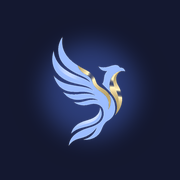
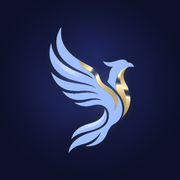
O'qituvchi uchun telefon ilovasi rejimi va yangi ilova ikonkalari
- O'qituvchi: pastki menyu (Asosiy, Guruhlar, Jadval, Xabarlar, Yana), «Yana» yon panelni ochadi; bosh sahifada «Ilovani o'rnating» kartasi
- Ilova ikonkalari logotipdan qayta yasaldi (qush kattaroq, yorqin), maskable va iPhone variantlari; ?v=2 va SW v3 bilan kesh yangilanadi

Changed region(s): [[0.25, 0.1389, 0.75, 0.8611]]

diff --git a/lms/public/app.js b/lms/public/app.js
@@ -243,6 +243,8 @@ const NAV = {
 // telefonda o'quvchi uchun pastki menyu (ilova kabi)
 const PTABBAR = [['#/', 'home', 'Asosiy'], ['#/p/attendance', 'checkCircle', 'Davomat'], ['#/p/tasks', 'clipboard', 'Baholar'], ['#/p/pay', 'wallet', "To'lov"], ['#/p/messages', 'message', 'Xabar']];
 const TABBAR = [['#/', 'home', 'Asosiy'], ['#/groups', 'layers', 'Kurslar'], ['#/rating', 'trophy', 'Reyting'], ['#/market', 'gift', 'Market'], ['#/profile', 'user', 'Profil']];
+// o'qituvchi ilovasi: oxirgi «Yana» — qolgan bo'limlarni (Kurslar, Reyting, E'lonlar, Profil) yon panelda ochadi
+const TTABBAR = [['#/', 'home', 'Asosiy'], ['#/groups', 'users', 'Guruhlar'], ['#/schedule', 'calendar', 'Jadval'], ['#/inbox', 'message', 'Xabarlar'], ['#more', 'menu', 'Yana']];
 const coinHtml = (n, cls = '') => `<span class="coin ${cls}"><i></i>${Number(n || 0).toLocaleString('ru-RU')}</span>`;
 
 function layout(html) {
@@ -255,8 +257,15 @@ function layout(html) {
   }).join('');
   const isSt = u.role === 'student', isPa = u.role === 'parent';
   const coinPill = isSt ? `<a href="#/coins" class="coin-pill" data-coins title="Coinlarim">${coinHtml(state.coins ?? 0)}</a>` : '';
-  const tabbar = isSt || isPa ? `<nav class="tabbar">${(isPa ? PTABBAR : TABBAR).map(([h, icon, t]) => { const a = h === '#/' ? (hash === '#/' || hash === '#') : hash.startsWith(h) || (h === '#/groups' && hash.startsWith('#/tests')); return `<a href="${h}" class="${a ? 'active' : ''}">${ic(icon)}<span>${t}</span></a>`; }).join('')}</nav>` : '';
-  document.body.classList.toggle('app-student', isSt || isPa);
+  const isTe = u.role === 'teacher';
+  const tabs = isPa ? PTABBAR : isTe ? TTABBAR : TABBAR;
+  const tabbar = isSt || isPa || isTe ? `<nav class="tabbar">${tabs.map(([h, icon, t]) => {
+    if (h === '#more') { const inMore = ['#/courses', '#/rating', '#/news', '#/profile'].some((x) => hash.startsWith(x)); return `<a href="#" data-more class="${inMore ? 'active' : ''}">${ic(icon)}<span>${t}</span></a>`; }
+    const a = h === '#/' ? (hash === '#/' || hash === '#') : hash.startsWith(h) || (h === '#/groups' && hash.startsWith('#/tests'));
+    return `<a href="${h}" class="${a ? 'active' : ''}">${ic(icon)}<span>${t}</span></a>`;
+  }).join('')}</nav>` : '';
+  document.body.classList.toggle('app-student', isSt || isPa || isTe);
+  document.body.classList.toggle('app-teacher', isTe);
   document.body.classList.toggle('is-home', hash === '#/' || hash === '#');
   const bell = `<button class="icon-btn" data-bell title="Bildirishnomalar">${ic('bell')}${state.unread ? `<span class="dot">${state.unread > 99 ? '99+' : state.unread}</span>` : ''}</button>`;
   $('#app').innerHTML = `
@@ -279,6 +288,7 @@ function layout(html) {
   </div>${tabbar}`;
   $('#logout').onclick = async () => { await api('POST', '/api/logout').catch(() => {}); state.user = null; go('#/login'); };
   $('#menuBtn').onclick = (e) => { e.stopPropagation(); $('#sidebar').classList.toggle('open'); };
+  const more = $('[data-more]'); if (more) more.onclick = (e) => { e.preventDefault(); e.stopPropagation(); $('#sidebar').classList.toggle('open'); };
   $$('[data-bell]').forEach((b) => { b.onclick = (e) => { e.stopPropagation(); toggleNotifications(); }; });
 }
 
@@ -535,6 +545,7 @@ async function viewDashboard() {
   } else if (u.role === 'teacher') {
     const s = d.stats;
     layout(`<div class="page-head"><div><h1>${greeting()}, ${first}!</h1><p>Bugungi ishlaringiz</p></div></div>
+      ${installCard()}
       <div class="stats">
         ${stat('violet', 'users', s.groups, 'Guruhlar')}
         ${stat('blue', 'layers', s.students, "O'quvchilar")}

diff --git a/lms/public/ilova/index.html b/lms/public/ilova/index.html
@@ -13,9 +13,9 @@
 <meta name="mobile-web-app-capable" content="yes">
 <meta name="apple-mobile-web-app-status-bar-style" content="black-translucent">
 <meta name="apple-mobile-web-app-title" content="yuksalish.dev">
-<link rel="icon" type="image/png" href="/img/favicon.png">
-<link rel="manifest" href="/manifest.webmanifest">
-<link rel="apple-touch-icon" href="/img/apple-touch-icon.png">
+<link rel="icon" type="image/png" href="/img/favicon.png?v=2">
+<link rel="manifest" href="/manifest.webmanifest?v=2">
+<link rel="apple-touch-icon" href="/img/apple-touch-icon.png?v=2">
 <link rel="preconnect" href="https://fonts.googleapis.com">
 <link rel="preconnect" href="https://fonts.gstatic.com" crossorigin>
 <link href="https://fonts.googleapis.com/css2?family=Poppins:wght@400;500;600;700;800&display=swap" rel="stylesheet">
@@ -201,7 +201,7 @@
   </section>
 
   <section class="final wrap">
-    <img src="/img/icon-192.png" alt="">
+    <img src="/img/icon-192.png?v=2" alt="">
     <h2>Boshlashga tayyormisiz?</h2>
     <p>O'rnating, login va parolingiz bilan kiring.</p>
     <div class="cta center">
@@ -220,7 +220,7 @@
 <div class="sheet" id="iosSheet" hidden>
   <div class="sheet-card" role="dialog" aria-modal="true" aria-labelledby="iosT">
     <button class="x" type="button" data-close aria-label="Yopish"><svg><use href="#i-x"/></svg></button>
-    <img class="sheet-ic" src="/img/icon-192.png" alt="">
+    <img class="sheet-ic" src="/img/icon-192.png?v=2" alt="">
     <h3 id="iosT">iPhone'ga o'rnatish</h3>
     <ol>
       <li><span><svg><use href="#i-share"/></svg></span>Pastdagi <b>Ulashish</b> tugmasini bosing</li>

diff --git a/lms/public/index.html b/lms/public/index.html
@@ -5,14 +5,14 @@
     <meta charset="UTF-8">
     <meta name="viewport" content="width=device-width, initial-scale=1.0, viewport-fit=cover">
     <title>yuksalish.dev</title>
-    <link rel="icon" type="image/png" href="/img/favicon.png">
-    <link rel="manifest" href="/manifest.webmanifest">
+    <link rel="icon" type="image/png" href="/img/favicon.png?v=2">
+    <link rel="manifest" href="/manifest.webmanifest?v=2">
     <meta name="theme-color" content="#141629">
     <meta name="mobile-web-app-capable" content="yes">
     <meta name="apple-mobile-web-app-capable" content="yes">
     <meta name="apple-mobile-web-app-status-bar-style" content="black-translucent">
     <meta name="apple-mobile-web-app-title" content="yuksalish.dev">
-    <link rel="apple-touch-icon" href="/img/apple-touch-icon.png">
+    <link rel="apple-touch-icon" href="/img/apple-touch-icon.png?v=2">
     <link rel="preconnect" href="https://fonts.googleapis.com">
     <link rel="preconnect" href="https://fonts.gstatic.com" crossorigin>
     <link href="https://fonts.googleapis.com/css2?family=Poppins:wght@300;400;500;600;700&family=Fira+Code:wght@400;500&display=swap" rel="stylesheet">

diff --git a/lms/public/app.css b/lms/public/app.css
@@ -1719,3 +1719,9 @@ html.zf .tg { height: calc(100vh / var(--zf) - 140px); }
 html.zf body.chat-open .tg { height: calc(100vh / var(--zf)); }
 /* zoom tufayli brauzer ekranni torroq deb hisoblaydi — keng ekrandagi 2 ustunli joylashuvni qaytaramiz */
 html.zf-wide .grid.two, html.zf-wide .grid.half { grid-template-columns: minmax(0, 1fr) minmax(0, 1fr); }
+
+/* O'qituvchi ilovasi (telefon): pastki menyu + «Yana» tugmasi bilan ochiladigan yon panel */
+@media (max-width: 900px) {
+  body.app-teacher.app-student .sidebar { display: flex; z-index: 80; padding-bottom: calc(16px + env(safe-area-inset-bottom)); }
+  body.app-teacher .install-card { margin-bottom: 14px; }
+}

diff --git a/lms/public/sw.js b/lms/public/sw.js
@@ -1,6 +1,6 @@
 /* yuksalish.dev — oddiy service worker: interfeys fayllari keshda, API har doim tarmoqdan */
-const CACHE = 'yd-shell-v2';
-const SHELL = ['/', '/app.css', '/app.js', '/img/yuksalish-logo-light.png', '/img/icon-192.png', '/img/background.jpg'];
+const CACHE = 'yd-shell-v3';
+const SHELL = ['/', '/app.css', '/app.js', '/img/yuksalish-logo-light.png', '/img/icon-192.png?v=2', '/img/background.jpg'];
 
 self.addEventListener('install', (e) => {
   e.waitUntil(caches.open(CACHE).then((c) => c.addAll(SHELL)).then(() => self.skipWaiting()));
